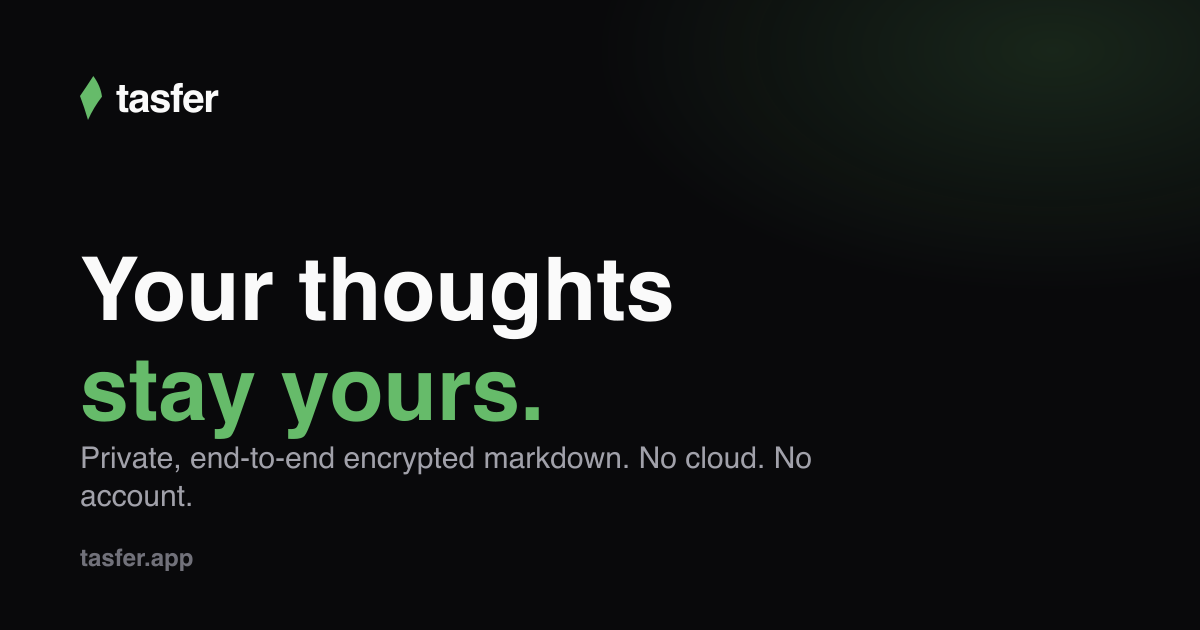
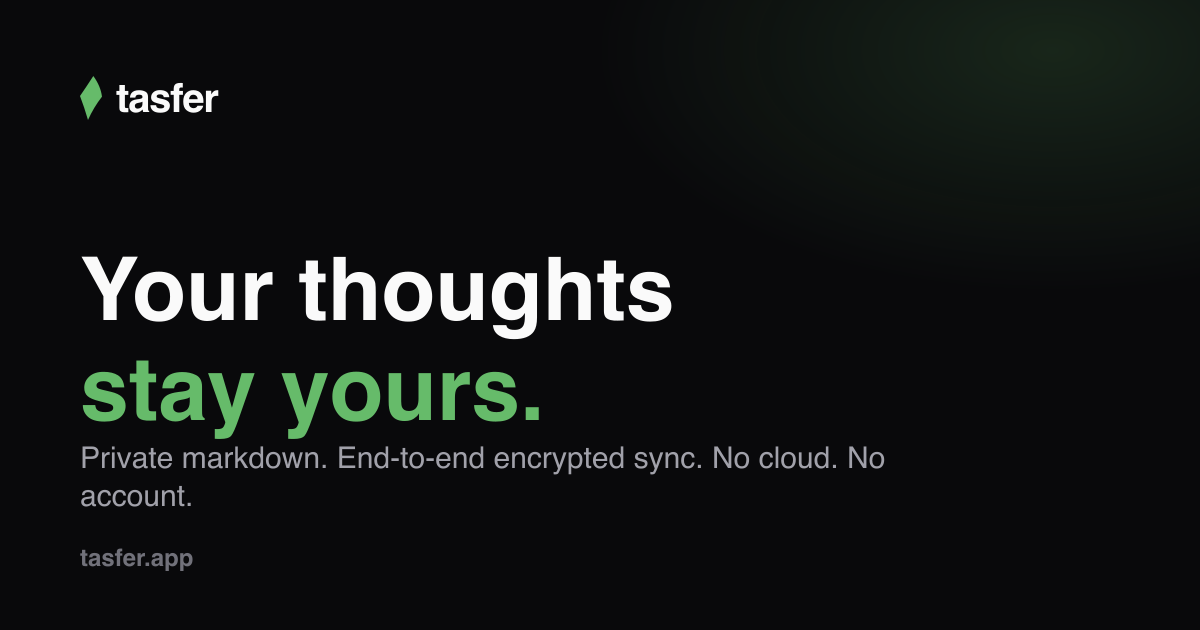
🔐 scope the encryption claim to sync instead of storage

Changed region(s): [[0.1542, 0.6937, 0.74, 0.754]]

diff --git a/apps/site/src/views/HomePage/HomePage.tsx b/apps/site/src/views/HomePage/HomePage.tsx
@@ -757,7 +757,7 @@ export default function HomePage() {
             <p className="lp-define-lede">
               {t(
                 "home.lp.define.lede",
-                "An app you write in. Notes, drafts, journals stored on your device, encrypted end-to-end on transient, synced device-to-device with no central server and no account.",
+                "An app you write in. Notes, drafts, journals stored on your device, encrypted end-to-end in transit, synced device-to-device with no central server and no account.",
               )}
             </p>
             <blockquote className="lp-pullquote">

diff --git a/apps/site/src/views/DocsPage/DocsPage.tsx b/apps/site/src/views/DocsPage/DocsPage.tsx
@@ -86,7 +86,7 @@ export default function DocsPage() {
               <p className="dx-branch-desc">
                 {t(
                   "docs.hub.app.desc",
-                  "A local-first, end-to-end encrypted markdown editor. Set it up, sync across your devices, run your own relay, and read exactly what stays on your disk.",
+                  "A local-first markdown editor with end-to-end encrypted sync. Set it up, sync across your devices, run your own relay, and read exactly what stays on your disk.",
                 )}
               </p>
               <div className="dx-branch-links">

diff --git a/apps/site/src/views/DownloadPage/DownloadPage.tsx b/apps/site/src/views/DownloadPage/DownloadPage.tsx
@@ -220,7 +220,7 @@ export default function DownloadPage() {
       name: "iOS",
       desc: t(
         "download.ios.desc",
-        "On the App Store. Reads and writes the same encrypted files as the desktop app.",
+        "On the App Store. The same documents as the desktop app, synced straight between your devices.",
       ),
       assets: [{ label: "App Store", href: APP_STORE_URL }],
     },
